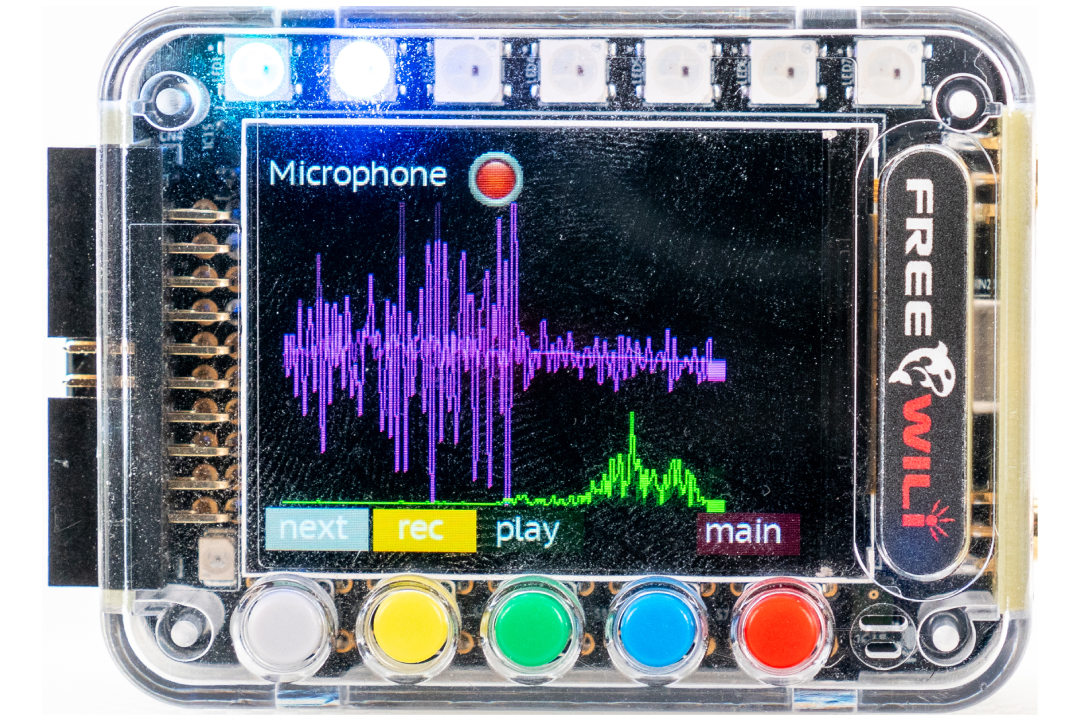
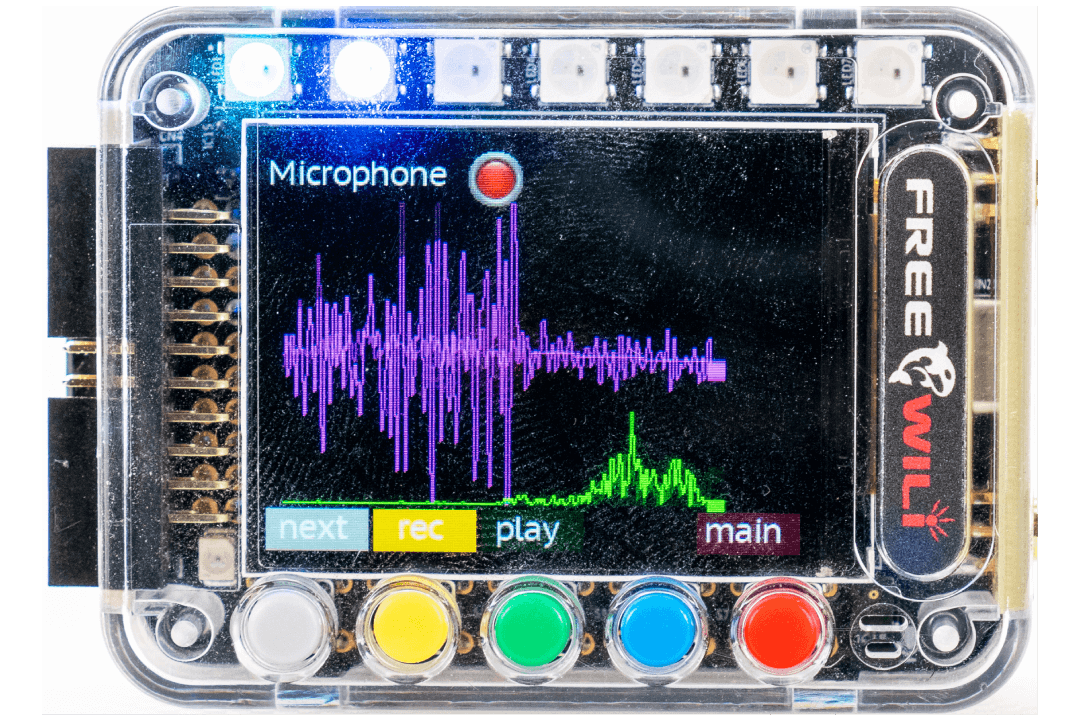
image compressed

diff --git a/docs/extending-with-orcas/maestro-debug-orca.md b/docs/extending-with-orcas/maestro-debug-orca.md
@@ -14,7 +14,7 @@ The Maestro Orca is a trouble shooting and development tool for FREE-WILi. The b
 
 <figure>
 
-![Maestro Orca Module](../assets/Maestro-Orca-Module.png "Maestro Orca Module")
+![Maestro Orca Module](../assets/Maestro-Orca-Module.webp "Maestro Orca Module")
 <figcaption>Maestro Orca Module</figcaption>
 </figure>
 </div>
